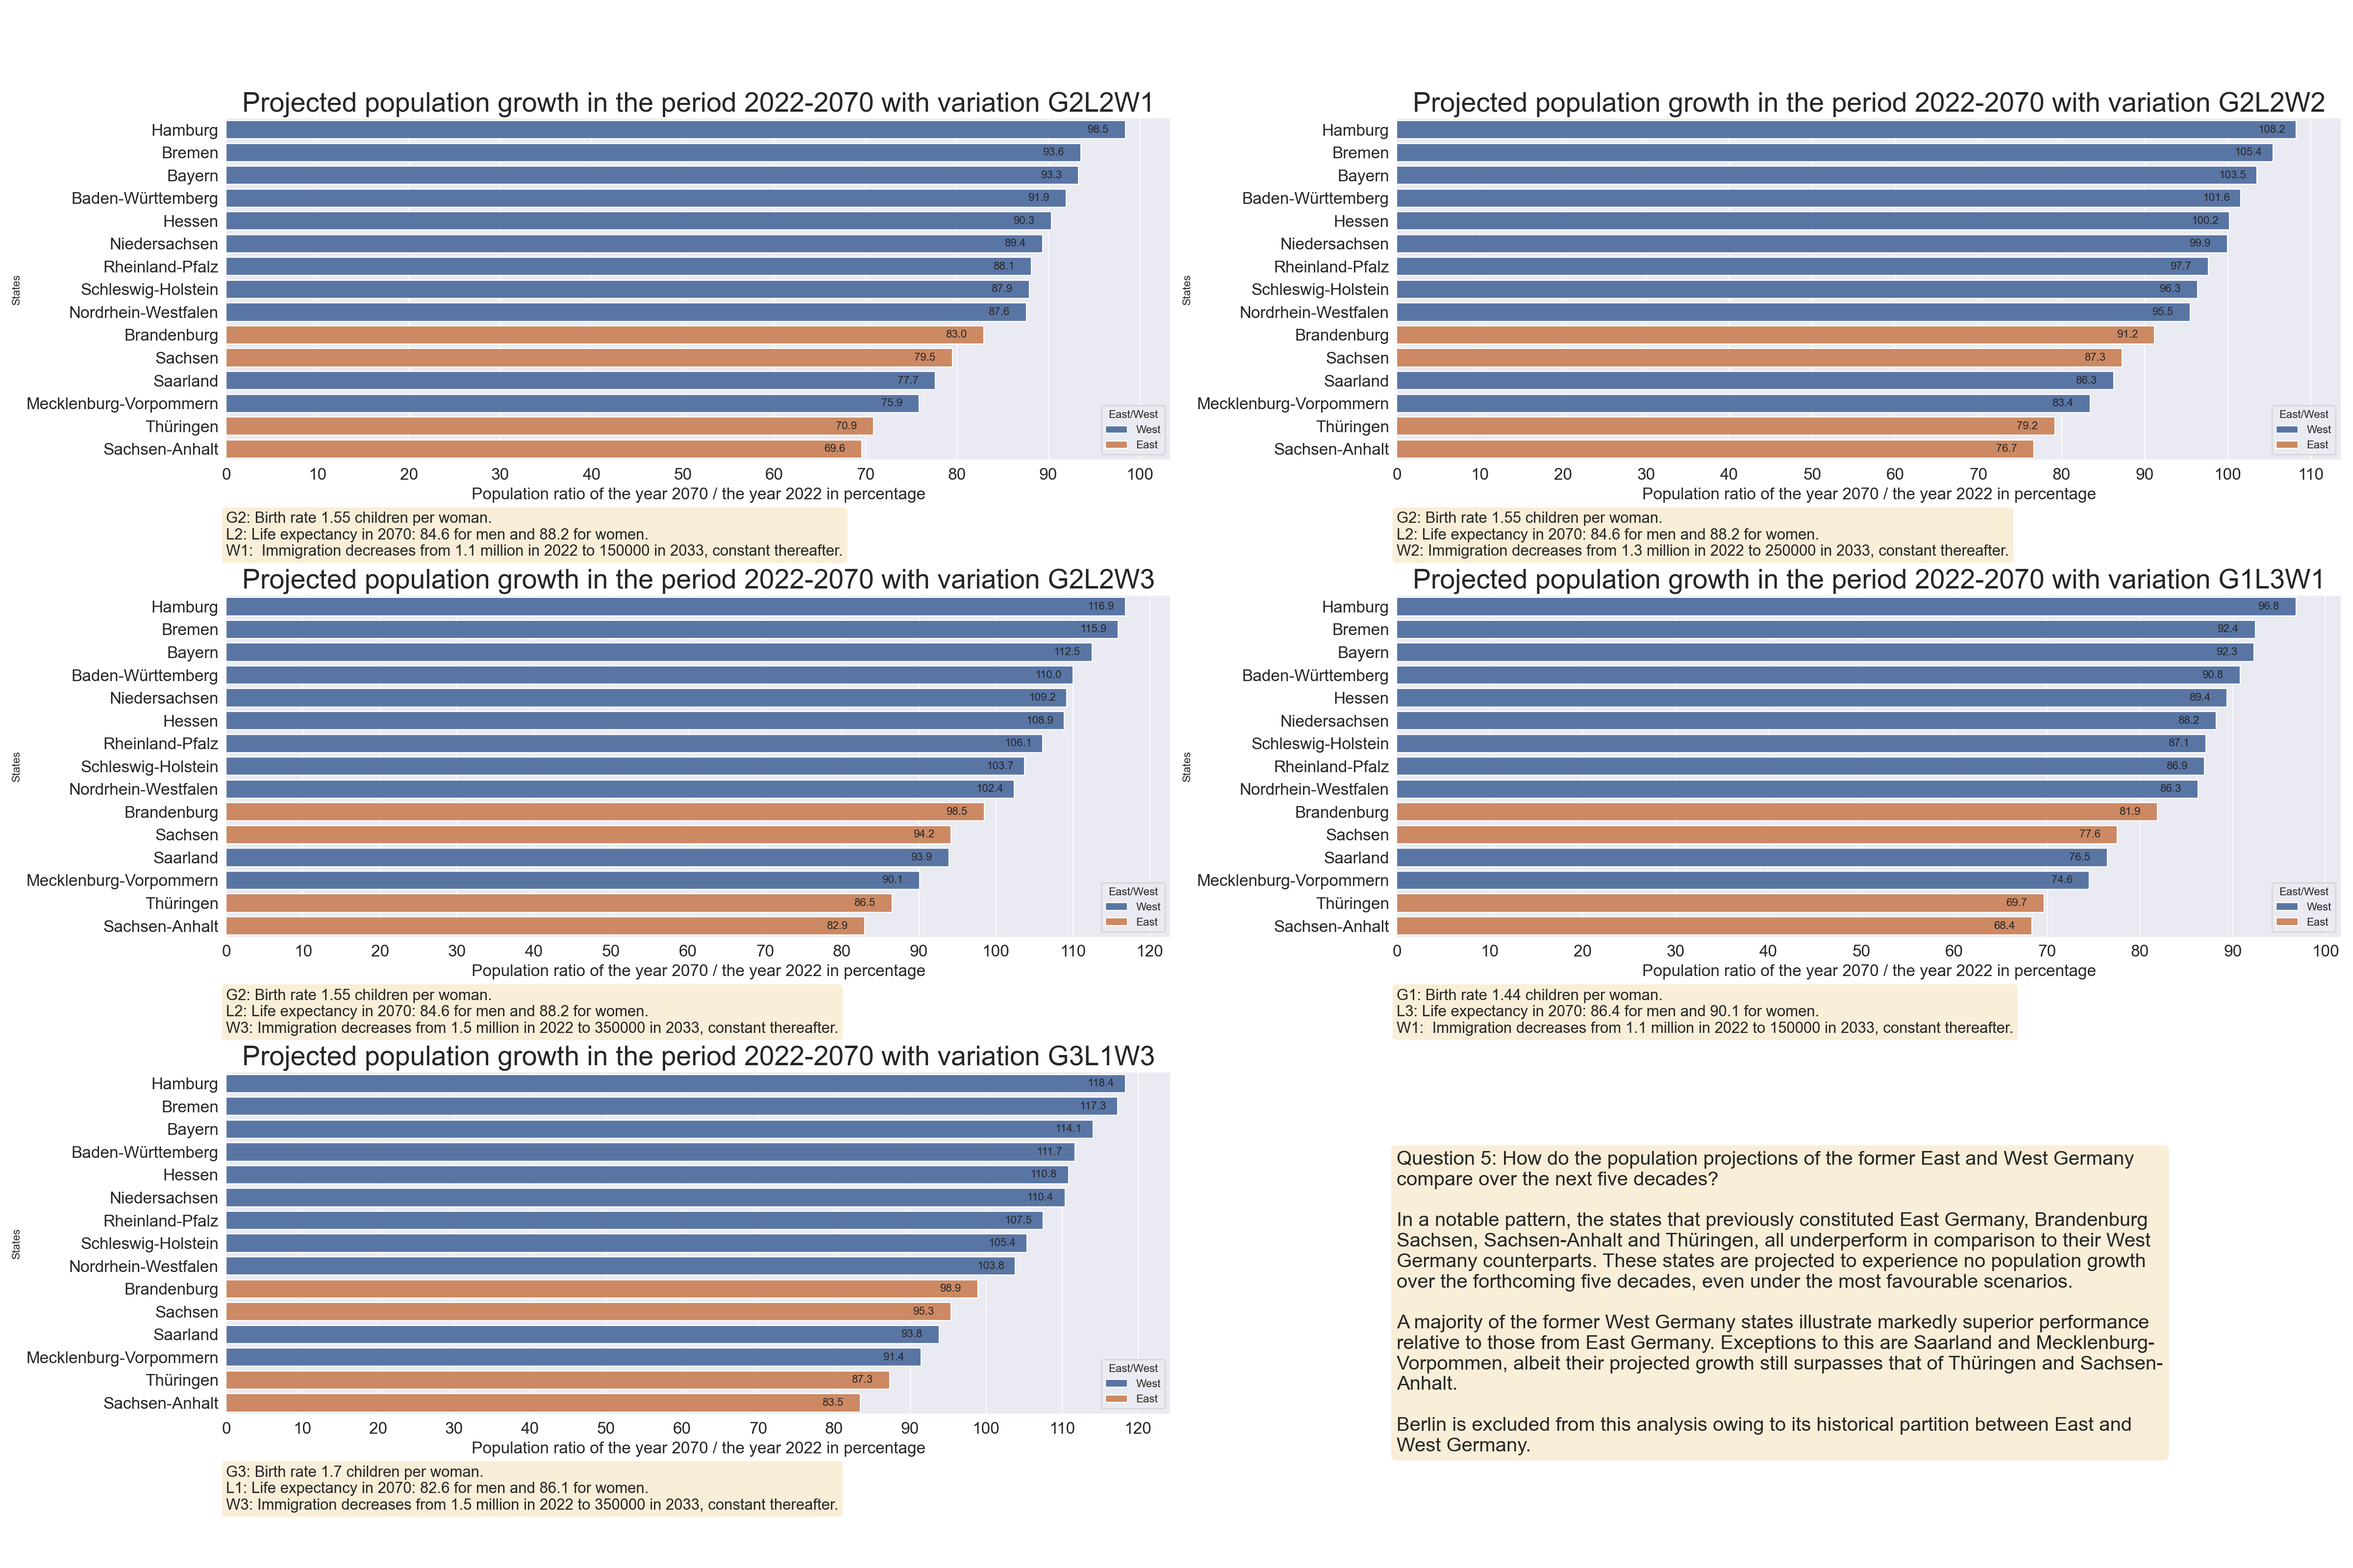
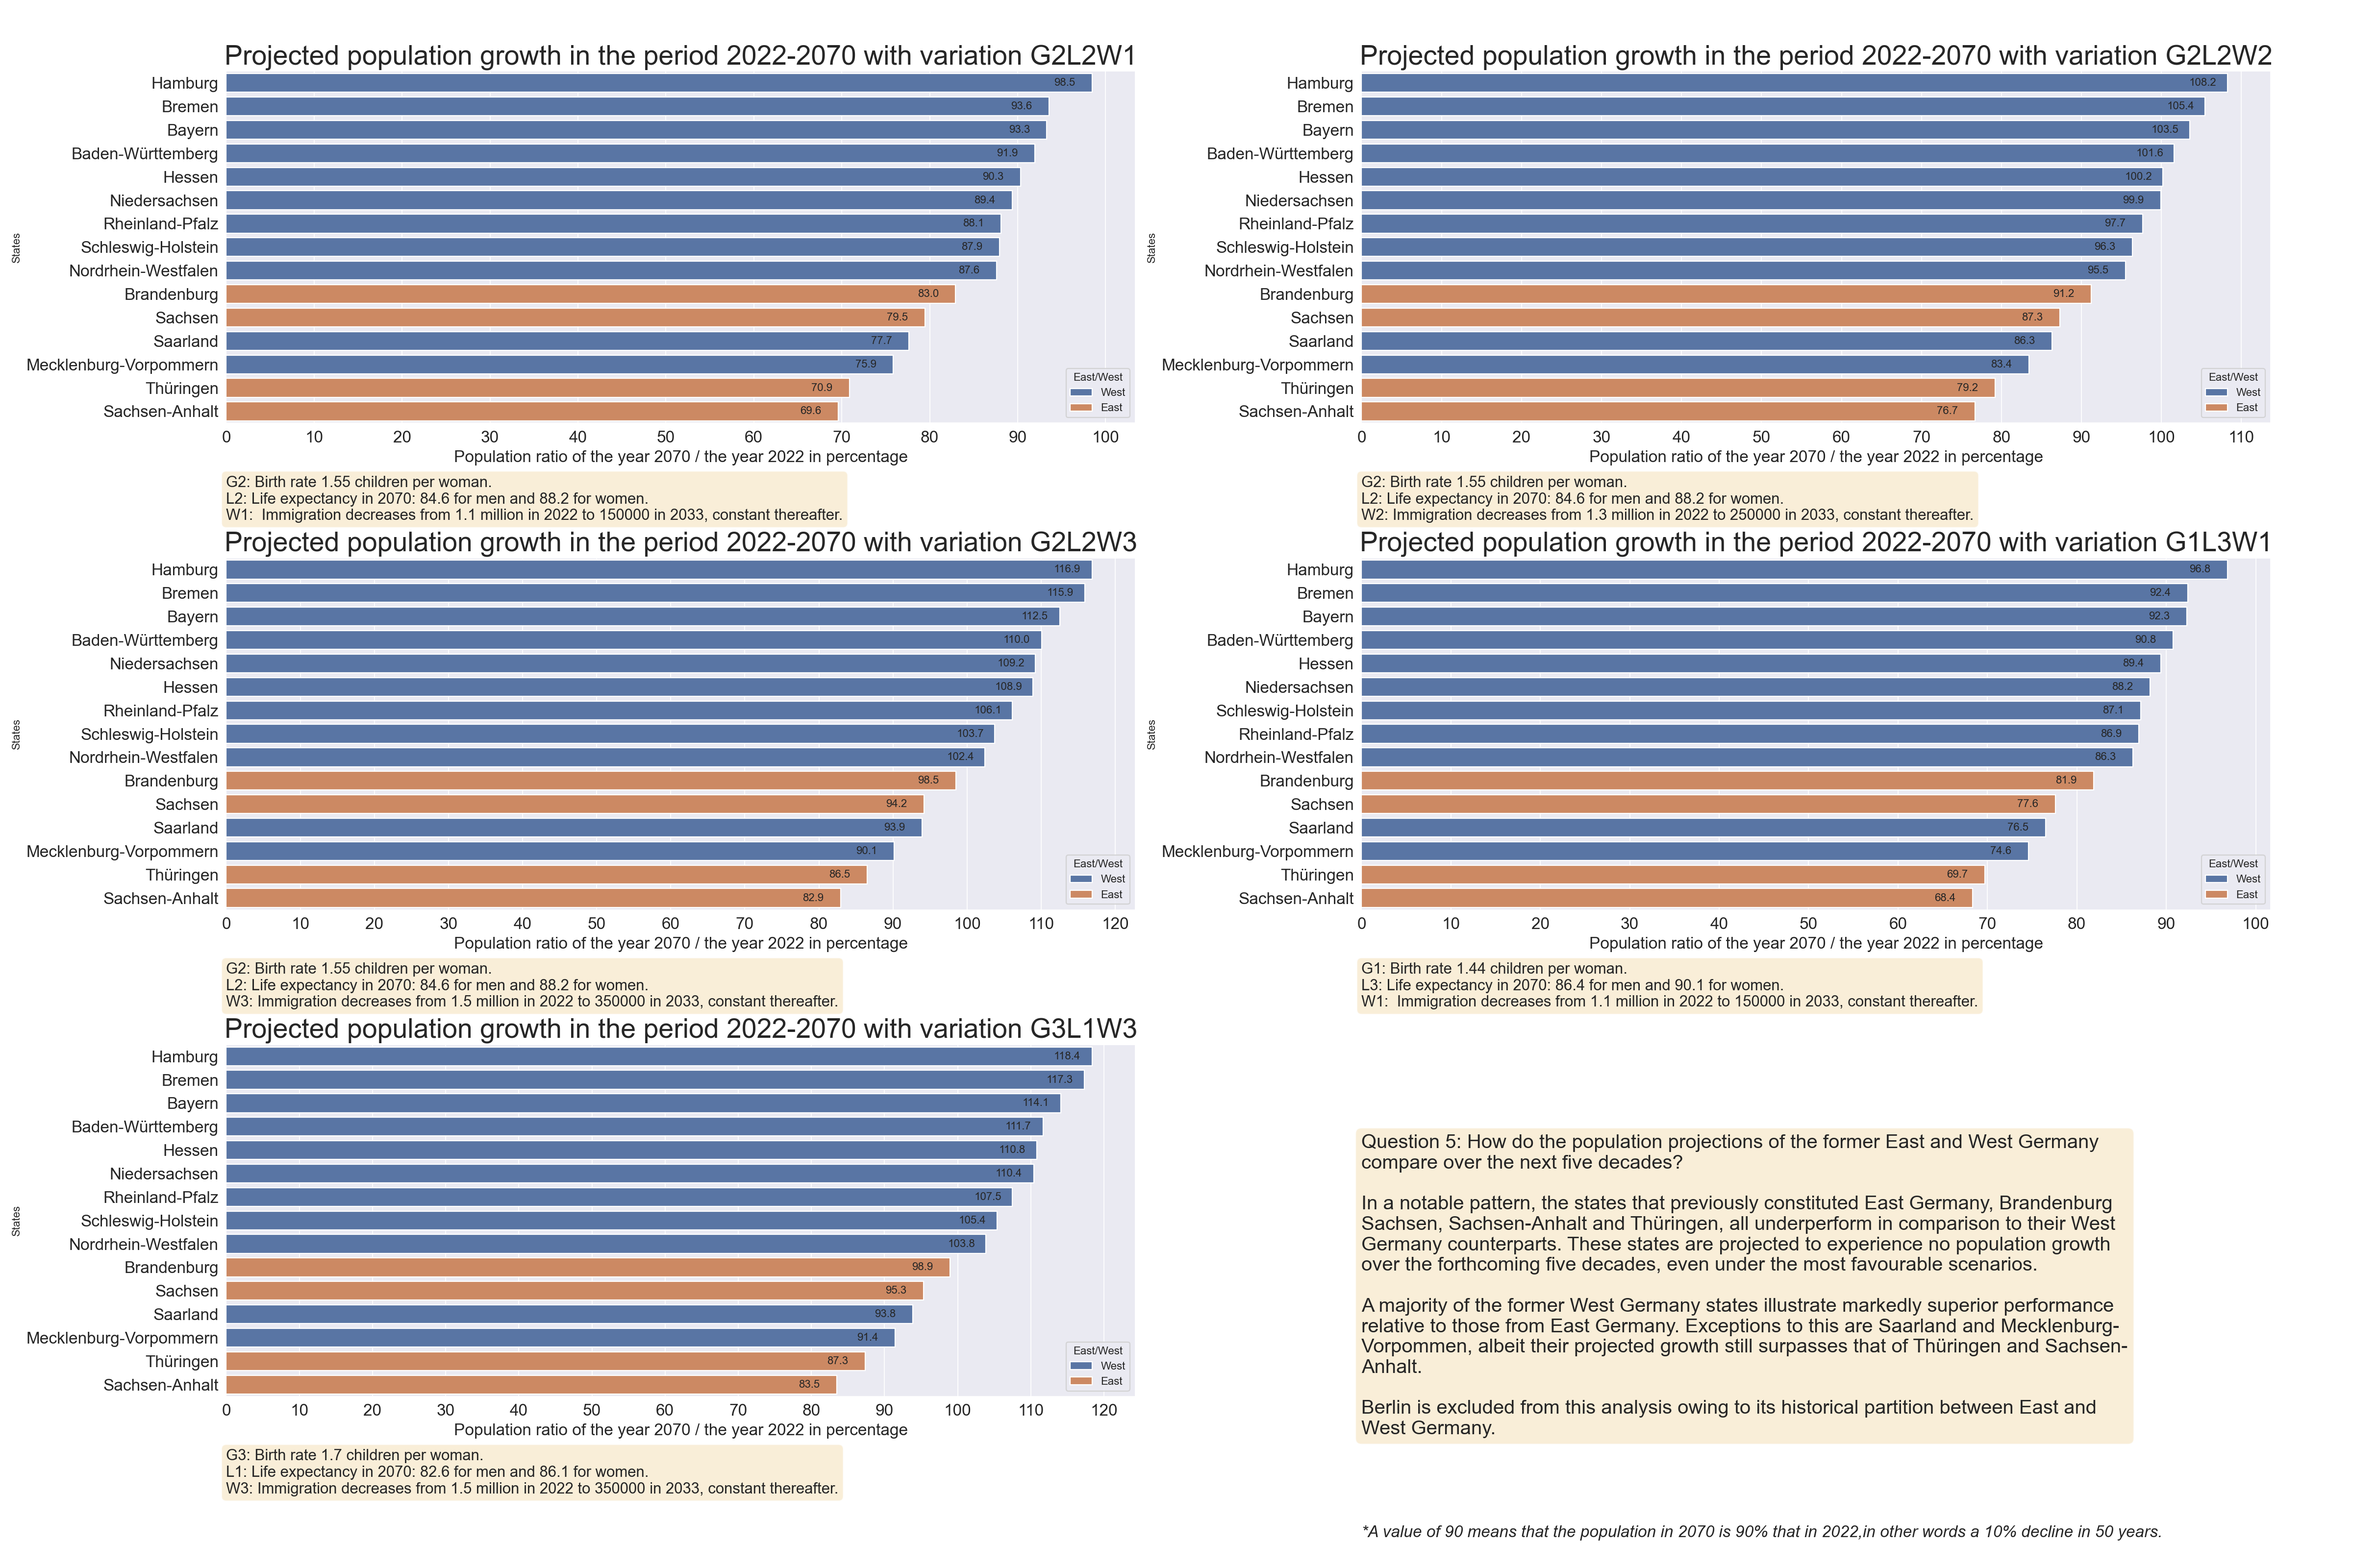
Fix question 6 and graphs layout

diff --git a/population.py b/population.py
@@ -64,7 +64,7 @@ def growth_percentage(df):
                     )
         ax.grid(axis="x")
         ax.set_title(f"Projected population growth in the period 2022-2070 with variation {variation}",
-                     fontsize=20)
+                     fontsize=25)
         ax.set_xlabel("Population ratio of the year 2070 / the year 2022 in percentage", fontsize=15)
         ax.set_xticks(range(0, round(max(dataframe["Growth"] + 10)), 10), fontsize=15)
         ax.tick_params(axis='both', which='major', labelsize=15)
@@ -90,9 +90,9 @@ def growth_percentage(df):
                "These graphs indicate that the range of population change are very different between all\n" \
                "German states."
     props = dict(boxstyle='round', facecolor='wheat', alpha=0.5)
-    axes.flat[5].text(0, -0.3, answer_2,
+    axes.flat[5].text(0, -0.1, answer_2,
                       # transform=axes.flat[5].transAxes,
-                      fontsize=20,
+                      fontsize=16,
                       # verticalalignment='top',
                       bbox=props,
                       wrap=True)
@@ -101,7 +101,7 @@ def growth_percentage(df):
                       "in other words a 10% decline in 50 years.",
                       fontsize=15,
                       style='italic')
-    fig.tight_layout(rect=[0, 0, 0.97, 0.98])
+    fig.tight_layout(rect=[0, 0.01, 0.97, 0.98])
     plt.show()
     fig.savefig("02_growth_percentage.png", dpi=160)
 
@@ -229,14 +229,19 @@ def east_west(df: dict[str, pd.DataFrame]):
                       # verticalalignment='top',
                       bbox=props,
                       wrap=True)
-    fig.tight_layout(rect=[0, 0.03, 1, 0.95])
+    axes.flat[5].text(0, -0.4,
+                      "*A value of 90 means that the population in 2070 is 90% that in 2022,"
+                      "in other words a 10% decline in 50 years.",
+                      fontsize=15,
+                      style='italic')
+    fig.tight_layout(rect=[0, 0.01, 0.97, 0.98])
     plt.show()
     fig.savefig(f"05_east_west.png", dpi=160)
 
 
 def urban_vs_rural(df):
-    urban = ["Berlin", "Hamburg", "Bayern", "Nordrhein-Westfalen", "Hesse"
-             "Baden-Württemburg", "Sachsen", "Bremen", "Niedersachsen"]
+    urban = ["Berlin", "Hamburg", "Bayern", "Nordrhein-Westfalen", "Hessen",
+             "Baden-Württemberg", "Sachsen", "Bremen", "Niedersachsen"]
     fig, axes = plt.subplots(nrows=3, ncols=2, figsize=(30, 20), dpi=40)
     props = dict(boxstyle='round', facecolor='wheat', alpha=0.5)
     for index, (variation, dataframe) in enumerate(df.items()):
@@ -264,16 +269,14 @@ def urban_vs_rural(df):
         text_box_display(ax, variation)
     answer_6 = "Question 6: Do states with larger cities have different population projection compared\n" \
                "more rural states?\n\n" \
-               "In a notable pattern, the states that previously constituted East Germany, Brandenburg\n" \
-               "Sachsen, Sachsen-Anhalt and Thüringen, all underperform in comparison to their West\n" \
-               "Germany counterparts. These states are projected to experience no population growth\n" \
-               "over the forthcoming five decades, even under the most favourable scenarios.\n\n" \
-               "A majority of the former West Germany states illustrate markedly superior performance\n" \
-               "relative to those from East Germany. Exceptions to this are Saarland and Mecklenburg-\n" \
-               "Vorpommen, albeit their projected growth still surpasses that of Thüringen and Sachsen-\n" \
-               "Anhalt.\n\n" \
-               "Berlin is excluded from this analysis owing to its historical partition between East and\n" \
-               "West Germany."
+               "Using a population threshold of 500,000, we have categorized the states into two\n" \
+               "classifications: 'Urban' and 'Rural'. 'Urban' states are characterized by having at\n" \
+               "least one city with a population exceeding 500,000, while 'Rural' states do not have\n" \
+               "such large urban centers.\n\n" \
+               "Our graphs reveals a trend favoring 'Urban' states, showing their potential advantages\n" \
+               "in term of population growth when contrasted with 'Rural' states.\n\n" \
+               "The bottom four states have no city with a population larger than 250,000, while the top\n" \
+               "seven are all states that have at least one city with a population larger than 500,000."
     axes.flat[5].axis("off")
     axes.flat[5].text(0, -0.1, answer_6,
                       # transform=axes.flat[5].transAxes,
@@ -281,7 +284,12 @@ def urban_vs_rural(df):
                       # verticalalignment='top',
                       bbox=props,
                       wrap=True)
-    fig.tight_layout(rect=[0, 0.03, 1, 0.95])
+    axes.flat[5].text(0, -0.4,
+                      "*A value of 90 means that the population in 2070 is 90% that in 2022,"
+                      "in other words a 10% decline in 50 years.",
+                      fontsize=15,
+                      style='italic')
+    fig.tight_layout(rect=[0, 0.01, 0.97, 0.98])
     plt.show()
     fig.savefig(f"06_urban_rural.png", dpi=160)
 
